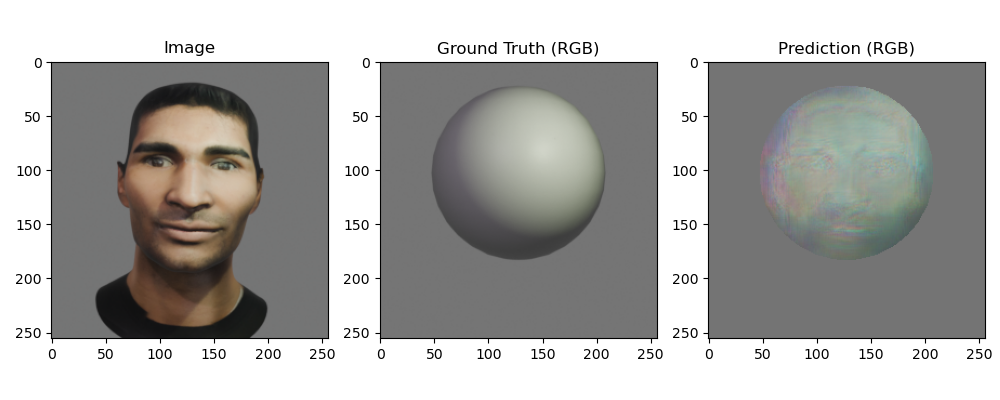
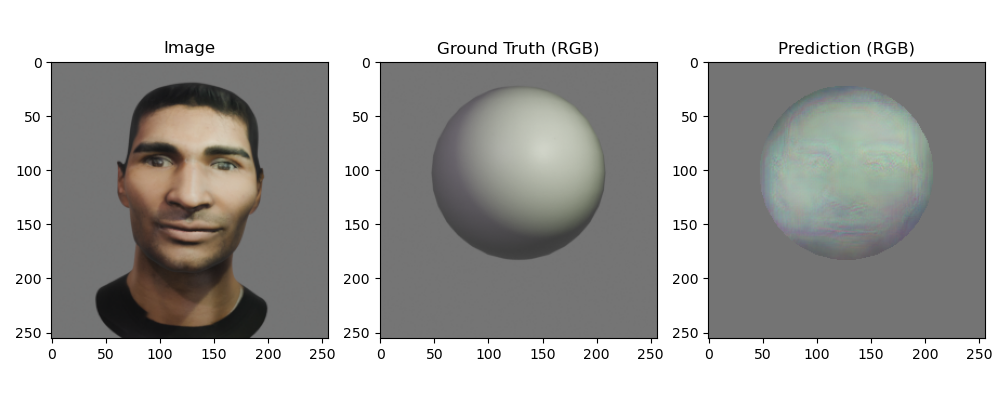
all halo fixed

diff --git a/train_full.py b/train_full.py
@@ -254,14 +254,14 @@ def visualize_prediction(model, dataset, idx=0): # TODO: check if normalize is c
     pred = np.transpose(pred, (1, 2, 0))
     #print(pred[126, 69])
 
-    pred = np.clip(pred, 0, 1)  # Ensure values are between 0 and 1
+    # pred = np.clip(pred, 0, 1)  # Ensure values are between 0 and 1
     
     # Apply background color only where mask is 0
-    bg_color = np.array([0.4588, 0.4588, 0.4588])
-    pred_with_bg = pred * mask_3d + bg_color * (1 - mask_3d)
+    # bg_color = np.array([0.4588, 0.4588, 0.4588])
+    # pred_with_bg = pred * mask_3d + bg_color * (1 - mask_3d)
     
     # Apply background color directly
-    # pred_with_bg = np.where(mask_3d, pred, np.array([0.4588, 0.4588, 0.4588]))
+    pred_with_bg = np.where(mask_3d, pred, np.array([0.4588, 0.4588, 0.4588]))
     # pred_with_bg = np.array(pred_with_bg).astype(np.float32) / 255.0
     
     # pred_with_bg = minmaxscale(gtruth) * train_dataset.mask_3d
